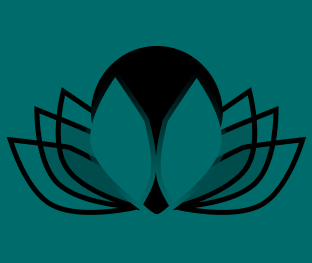
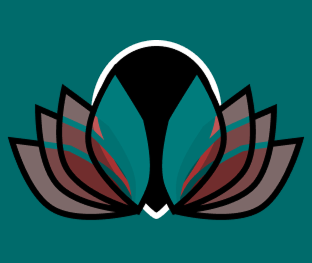
стилове

Changed region(s): [[0.0288, 0.1521, 0.9808, 0.8517], [0.0, 0.5171, 0.0288, 0.5475]]

diff --git a/projects.html b/projects.html
@@ -125,6 +125,36 @@
         </div>
       </div>
     </section>
+    <section class="projectContainer" id="onyxProjectContainer">
+      <div class="container pt-3">
+        <div class="row align-items-center project" id="onyxProject">
+          <div class="col-12 col-md-6">
+            <div class="onyxImageContainer text-center">
+              <img
+                src="Images/Onyx.png"
+                class="img-fluid"
+                alt="Onyx Screenshot"
+              />
+            </div>
+          </div>
+          <div class="col-12 col-md-6">
+            <div class="projectContent text-light">
+              <h1 class="mb-5" data-i18n="onyx">ОНИКС</h1>
+              <p class="lead styleText" data-i18n="onyxDescription"></p>
+            </div>
+          </div>
+          <div class="projectBtnContainer mt-5 mb-5">
+            <a
+              class="projectBtn"
+              href="onyx.html"
+              id="onyxProjectBtn"
+              data-i18n="see"
+              >Преглед</a
+            >
+          </div>
+        </div>
+      </div>
+    </section>
     <section class="projectContainer" id="indigoProjectContainer">
       <div class="container pt-3">
         <div class="row align-items-center project" id="indigoProject">
@@ -148,36 +178,6 @@
               class="projectBtn"
               href="indigo.html"
               id="indigoProjectBtn"
-              data-i18n="see"
-              >Преглед</a
-            >
-          </div>
-        </div>
-      </div>
-    </section>
-    <section class="projectContainer" id="onyxProjectContainer">
-      <div class="container pt-3">
-        <div class="row align-items-center project" id="onyxProject">
-          <div class="col-12 col-md-6">
-            <div class="onyxImageContainer text-center">
-              <img
-                src="Images/OnyxDark.png"
-                class="img-fluid"
-                alt="Onyx Screenshot"
-              />
-            </div>
-          </div>
-          <div class="col-12 col-md-6">
-            <div class="projectContent text-light">
-              <h1 class="mb-5" data-i18n="onyx">ОНИКС</h1>
-              <p class="lead styleText" data-i18n="onyxDescription"></p>
-            </div>
-          </div>
-          <div class="projectBtnContainer mt-5 mb-5">
-            <a
-              class="projectBtn"
-              href="onyx.html"
-              id="onyxProjectBtn"
               data-i18n="see"
               >Преглед</a
             >

diff --git a/onyx.html b/onyx.html
@@ -98,11 +98,8 @@
       </button>
     </div>
     <section class="onyxContainer mb-5" id="">
-      <div
-        class="projectImageContainer bg-black"
-        id="onyxProjectImageContainer"
-      >
-        <img src="Images/OnyxDark.png" />
+      <div class="projectImageContainer" id="onyxProjectImageContainer">
+        <img src="Images/Onyx.png" />
       </div>
       <div
         class="projectContentContainer container mt-5"

diff --git a/onyxStyles.css b/onyxStyles.css
@@ -1,8 +1,11 @@
 #onyxProjectContainer {
+  background-color: #003535;
+}
+#onyxProjectImageContainer {
   background-color: #006b6b;
 }
 #onyxProject {
-  background-color: black;
+  background-color: #006b6b;
 }
 #onyxProjectBtn:hover {
   background-color: #003535;
